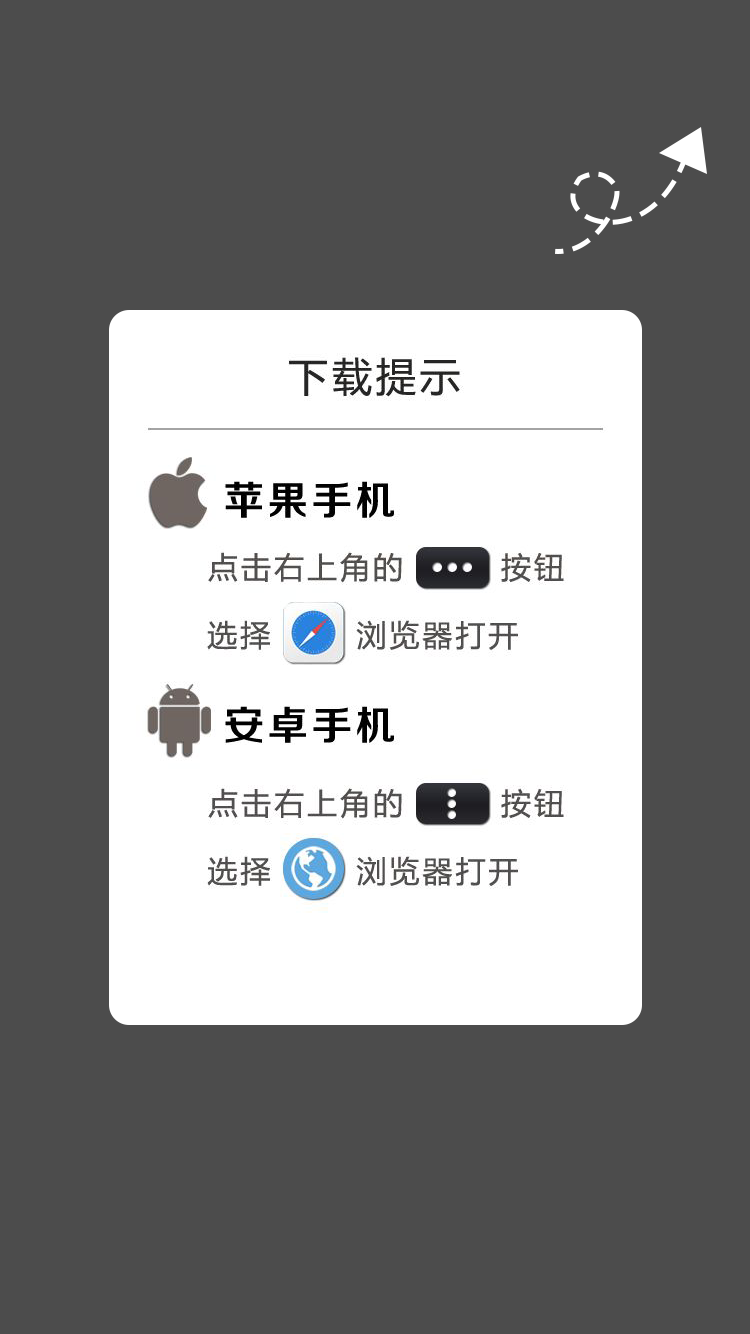
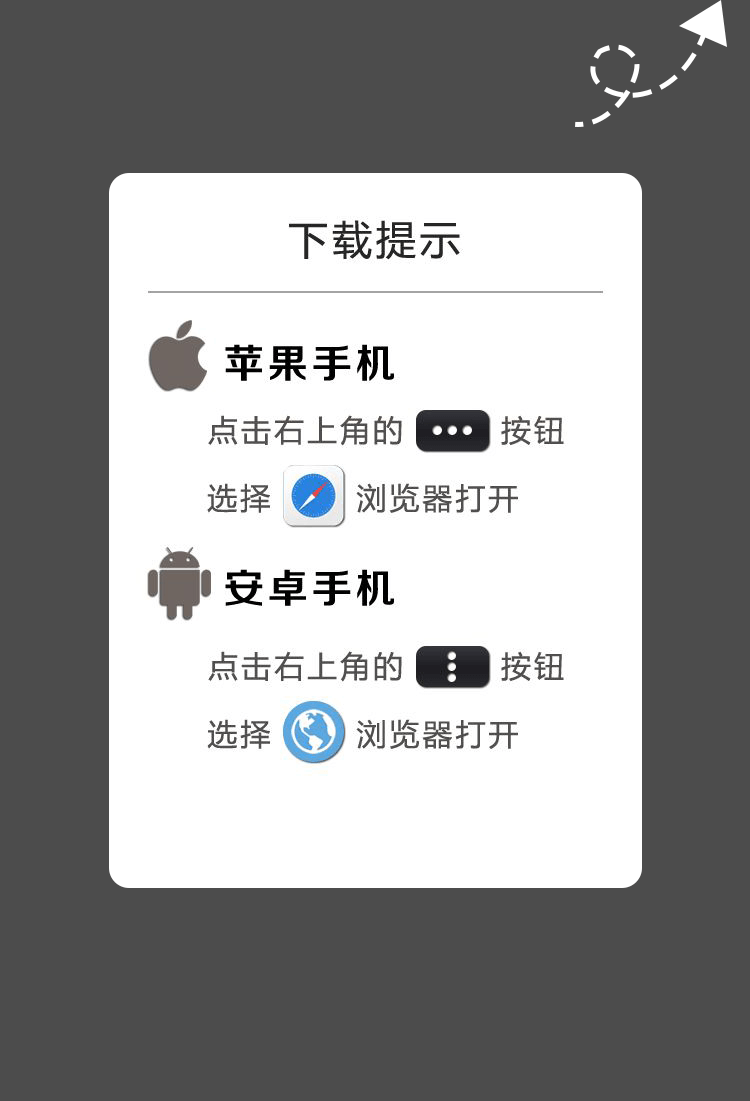
初始化推荐人用HTTP调用

diff --git a/com.passport.web/src/main/resources/templates/intercept.html b/com.passport.web/src/main/resources/templates/intercept.html
@@ -10,7 +10,7 @@
 <body>
 
 <div class="tips-layer" id="tips-layer">
-    <img src="/static/imgs/vchat/lanj.png" alt="" style="width: 100%; height: 110%;"/>
+    <img src="/static/imgs/vchat/lanj.png" alt="" style="width: 100%; height: 100%;"/>
 </div>
 <script src="/static/js/vchat.js"></script>
 </body>
